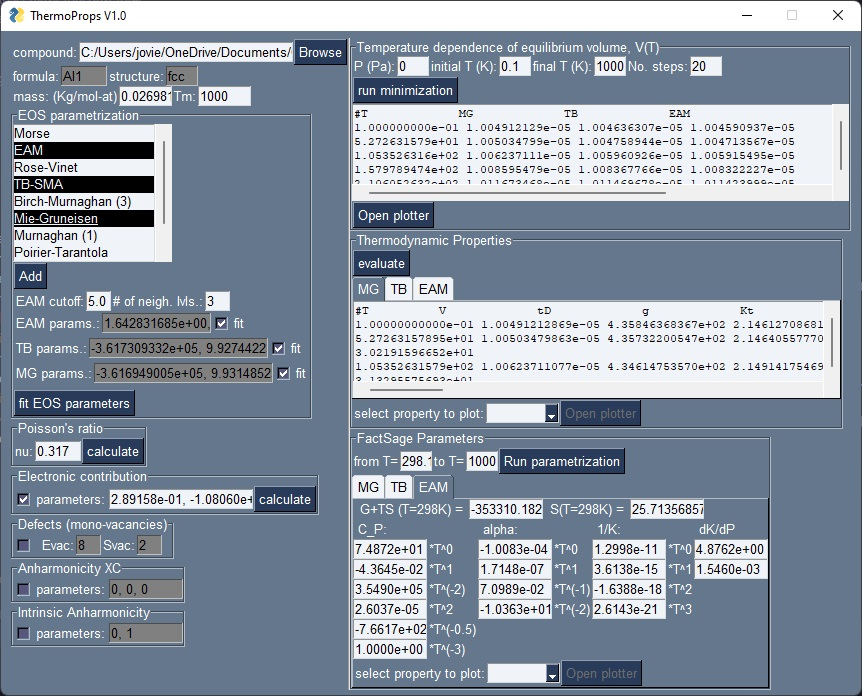
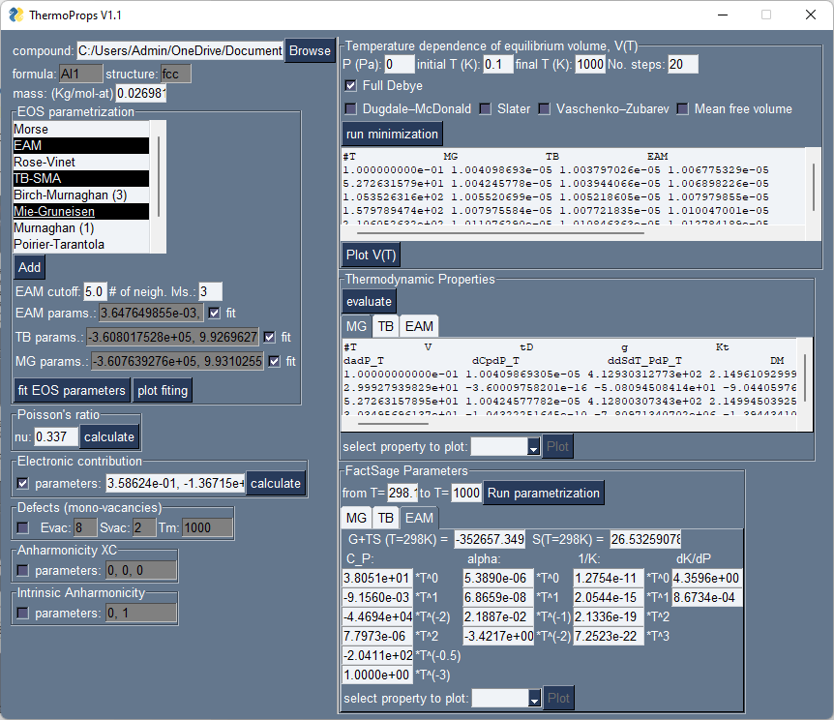
doc

diff --git a/debyetools/ndeb.py b/debyetools/ndeb.py
@@ -147,16 +147,7 @@ class nDeb:
 
         :params float T: The temperature in Kelvin.
         :params float V: The volume in "units".
-
-        :return dict: A dictionary with the following keys: 'T': temperature, 'V': volume, 'tD': Debye temperature,
-        'g': Gruneisen parameter, 'Kt': isothermal bulk modulus, 'Ktp': pressure derivative of the isothermal bulk
-        modulus, 'Ktpp': second order pressure derivative of the isothermal bulk modulus, 'Cv': constant-volume heat
-        capacity, 'a': thermal expansion, 'Cp': constant-pressure heat capacity, 'Ks': adiabatic bulk modulus , 'Ksp':
-        pressure derivative of the adiabatic bulk modulus, 'G': Gibbs free energy, 'E': total internal energy, 'S':
-        entropy, 'E0': 'cold' internal energy defined by the EOS, 'Fvib': vibrational free energy, 'Evib': vibrational
-        internal energy, 'Svib': vibrational entropy, 'Cvvib': vibrational heat capacity, 'Pcold': 'cold' pressure,
-        'dPdT_V': (dP/dT)_V, 'G^2': Ktp**2-2*Kt*Ktpp, 'dSdP_T': (dS/dP)_T, 'dKtdT_P': (dKt/dT)_P, 'dadP_T': (da/dP)_T,
-        'dCpdP_T': (dCp/dP)_T, 'ddSdT_PdP_T': (d2S/dTdP).
+        :return dict: A dictionary with the following keys: 'T': temperature, 'V': volume, 'tD': Debye temperature, 'g': Gruneisen parameter, 'Kt': isothermal bulk modulus, 'Ktp': pressure derivative of the isothermal bulk modulus, 'Ktpp': second order pressure derivative of the isothermal bulk modulus, 'Cv': constant-volume heat capacity, 'a': thermal expansion, 'Cp': constant-pressure heat capacity, 'Ks': adiabatic bulk modulus , 'Ksp': pressure derivative of the adiabatic bulk modulus, 'G': Gibbs free energy, 'E': total internal energy, 'S': entropy, 'E0': 'cold' internal energy defined by the EOS, 'Fvib': vibrational free energy, 'Evib': vibrational internal energy, 'Svib': vibrational entropy, 'Cvvib': vibrational heat capacity, 'Pcold': 'cold' pressure, 'dPdT_V': (dP/dT)_V, 'G^2': Ktp**2-2*Kt*Ktpp, 'dSdP_T': (dS/dP)_T, 'dKtdT_P': (dKt/dT)_P, 'dadP_T': (da/dP)_T, 'dCpdP_T': (dCp/dP)_T, 'ddSdT_PdP_T': (d2S/dTdP).
         """
         nu, r, m = self.nu, self.r, self.m
 

diff --git a/debyetools/anharmonicity.py b/debyetools/anharmonicity.py
@@ -57,11 +57,10 @@ class Anharmonicity:
         """
         Fourth order volume derivative of A at fixed T.
 
-        :param float V: Volume
+        :param float V: Volume.
         :return: 0
-        :rtype: float
+        :rtype: float.
         """
-
         return 0
 
     def E(self, T, V):
@@ -266,7 +265,6 @@ class intAnharmonicity:
         :return: an_val*(d2Anh_val/dT2)_V/2
         :rtype: float
         """
-
         self.d3AnhdT3_V_val = (1 / 2) * self.an_val * self.d2AnhdT2_V_val
         return self.d3AnhdT3_V_val
 
@@ -275,7 +273,7 @@ class intAnharmonicity:
         Fourth order temperature derivative of the intrinsic anharmonicity correction of the Debye temperature,
         at fixed V.
 
-        :param float V: Volume
+        :param float V: Volume.
         :return: an_val*(d3Anh_val/dT3)_V/2
         :rtype: float
         """
@@ -323,8 +321,7 @@ class intAnharmonicity:
         Fourth order Volume derivative of the intrinsic anharmonicity correction of the Debye temperature, at fixed T.
 
         :param float V: Volume
-        :return: dAnhdV_T_val*(T^3*an_val^3*m0^3+12*T^2*an_val^2*m0^3 -
-        12*T^2*an_val^2*m0^2+28*T*an_val*m0^3-72*T*an_val*m0^2+44T*an_val*m0+8+m0^3-48*m0^2+88*m0-48)/(8*V^3)
+        :return: dAnhdV_T_val*(T^3*an_val^3*m0^3+12*T^2*an_val^2*m0^3 - 12*T^2*an_val^2*m0^2+28*T*an_val*m0^3-72*T*an_val*m0^2+44T*an_val*m0+8+m0^3-48*m0^2+88*m0-48)/(8*V^3)
         :rtype: float
         """
         self.d4AnhdT4_V_val = self.dAnhdV_T_val * (

diff --git a/debyetools/potentials.py b/debyetools/potentials.py
@@ -56,9 +56,7 @@ class BM:
         Internal energy.
 
         :param float V: Volume.
-
-        :return float: P0 + P1 / V ** (2 / 3) + P2 / V ** (4 / 3) + P3 * V ** (-6 / 3), where Pi are calculated
-        from E0, V0, B0, Bp0 parameters.
+        :return float: P0 + P1 / V ** (2 / 3) + P2 / V ** (4 / 3) + P3 * V ** (-6 / 3), where Pi are calculated from E0, V0, B0, Bp0 parameters.
         """
         return self.E04min(V, self.pEOS)
 

diff --git a/docs/source/api/fsdb.rst b/docs/source/api/fsdb.rst
@@ -1,8 +1,9 @@
-====================================
+==========================================
 FactSage compound database parametrization
-====================================
+==========================================
 
-The calculated thermodynamic properties for each EOS selected are used to fit the models for heat capacity, thermal expansion, bulk modulus and pressure derivative of the bulk modulus.
+The calculated thermodynamic properties for each EOS selected are used to fit the models for heat capacity,
+thermal expansion, bulk modulus and pressure derivative of the bulk modulus.
 The resulting parameters can be used in FactSage as a compound database.
 
 Example

diff --git a/docs/source/api/examples.rst b/docs/source/api/examples.rst
@@ -276,7 +276,7 @@ The function to evaluate, the heat capacity, is as follows:
         #=========================
         m = 0.02253677142857143
         ndeb_MU = nDeb(nu, m, p_intanh, eos_MU, p_electronic,
-                        p_defects, p_anh)
+                        p_defects, p_anh, mode='jj)
         T, V = ndeb_MU.min_G(T, p_EOS[1], P=0)
         #=========================
 

diff --git a/docs/index.rst b/docs/index.rst
@@ -32,7 +32,7 @@ The code_ is freely available under the GNU Affero General Public License.
 .. figure::  ./source/api/images/tprops_gui.jpeg
    :align:   center
 
-   tProps v0.0
+   tProps v1.1
 
 - Using ``debyetools`` as a Python_ library. Example: Al fcc using Morse Potential:
 
@@ -135,6 +135,3 @@ Indices
 
 * :ref:`genindex`
 * :ref:`modindex`
-
-News
-====

diff --git a/docs/source/api/nDeb.rst b/docs/source/api/nDeb.rst
@@ -26,7 +26,7 @@ The EOS implemented are:
 - Fourth order Birch-Murnaghan (BM4)
 - Second order Murnaghan (Mu2)
 
-Two description of the internal energy through interatomic potentials has been included as well: 
+Two description of the internal energy through inter atomic potentials has been included as well:
 
 - Morse
 - EAM

diff --git a/docs/source/api/fileformats.rst b/docs/source/api/fileformats.rst
@@ -96,7 +96,7 @@ Extract of `DOCAR.EvV.-0.01`.
 
        4   4   1   0
       0.1599154E+02  0.3999295E-09  0.3999295E-09  0.3999295E-09  0.5000000E-15
-      1.000000000000000E-004
+      1.00000000000000E-004
       CAR
      unknown system
          20.23257380     -4.13078501  301      8.31659488      1.00000000

diff --git a/docs/source/api/gui.rst b/docs/source/api/gui.rst
@@ -35,7 +35,7 @@ The interface:
 .. figure::  ./images/tprops_gui.jpeg
    :align:   center
 
-   tProps v0.0
+   tProps v1.1
 
 
 EOS Parametrization
